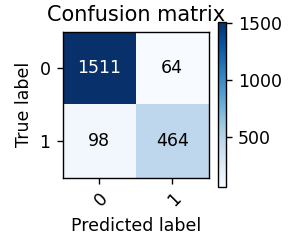
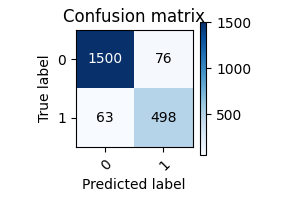
Switched from SGD to Adam, better model

diff --git a/pretrained_model.py b/pretrained_model.py
@@ -48,8 +48,8 @@ device = torch.device("cuda" if torch.cuda.is_available() else "cpu")
 
 # parameters
 TENSOR_SIZE = 128
-BATCH_SIZE = 16
-LEARNING_RATE = 0.01
+BATCH_SIZE = 32
+LEARNING_RATE = 0.001
 
 dataset_path = './D-Fire'
 

diff --git a/models/pretrained_model.md b/models/pretrained_model.md
@@ -1,19 +1,19 @@
 # Epoch losses
 |                |         |
 |----------------|---------|
-| Epoch 1 loss   | 0.312   |
-| Epoch 2 loss   | 0.251   |
-| Epoch 3 loss   | 0.230   |
+| Epoch 1 loss   | 0.268   |
+| Epoch 2 loss   | 0.215   |
+| Epoch 3 loss   | 0.207   |
 
 
 # Metrics
 |                |         |
 |----------------|---------|
-| Validation accuracy   | 92.182%   |
-| Test accuracy   | 92.419%   |
-| F1 Score   | 0.851   |
-| Precision   | 0.879   |
-| Recall   | 0.826   |
+| Validation accuracy   | 92.743%   |
+| Test accuracy   | 93.496%   |
+| F1 Score   | 0.878   |
+| Precision   | 0.868   |
+| Recall   | 0.888   |
 
 
 # Confusion Matrix
@@ -23,6 +23,6 @@
 |                |         |
 |----------------|---------|
 | Criterion   | Cross Entropy Loss   |
-| Optimizer   | SGD   |
+| Optimizer   | Adam   |
 | Learning Rate   | 0.001   |
-| Batch Size   | 16   |
+| Batch Size   | 32   |
